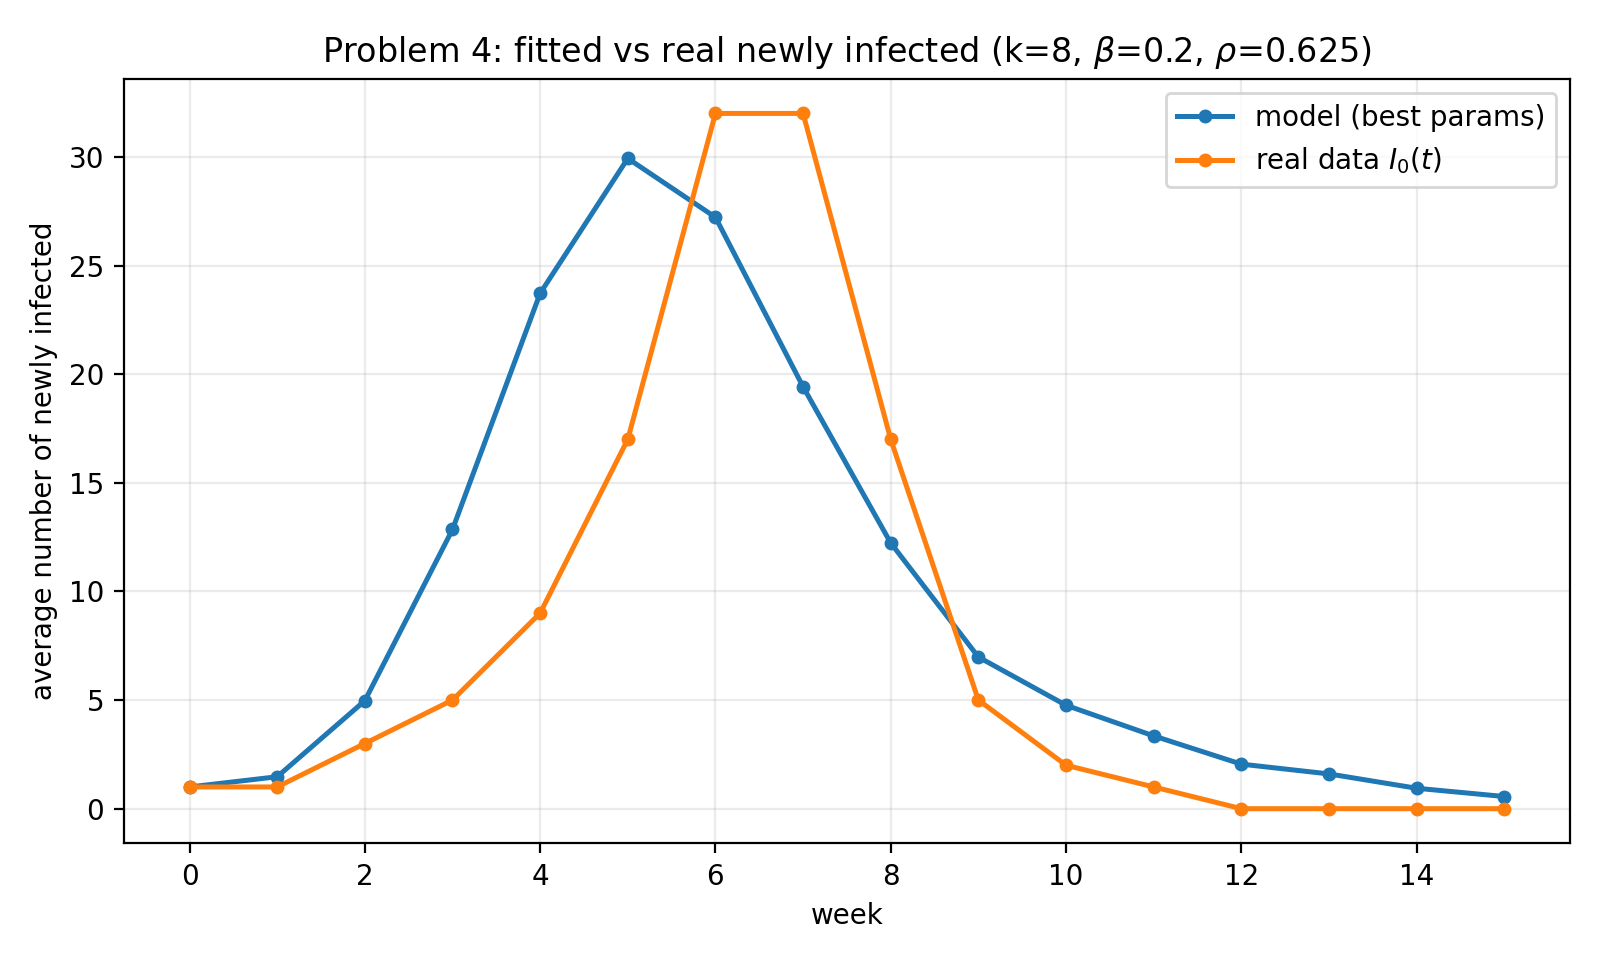
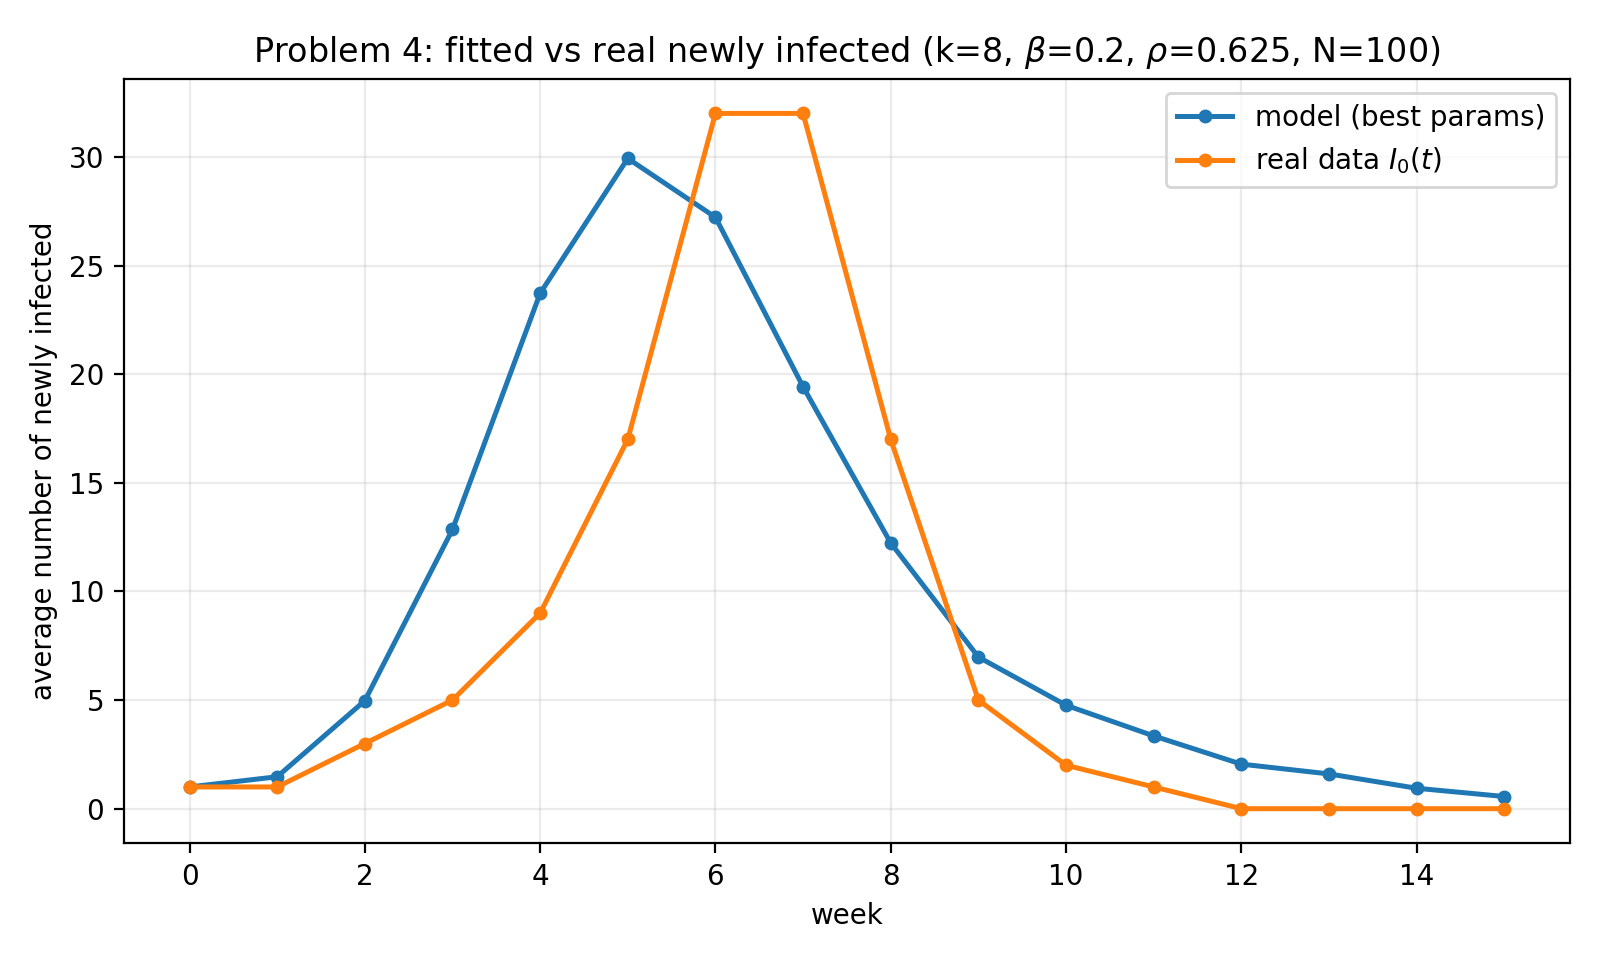
added run at N=10

Changed region(s): [[0.1562, 0.0312, 0.9062, 0.0625]]

diff --git a/hw3/src/run_problem4.py b/hw3/src/run_problem4.py
@@ -3,9 +3,13 @@
 Coordinate (local) search over a 3x3x3 neighbourhood in (k, beta, rho), minimizing the
 RMSE between the simulated average newly-infected curve and the real scaled data I0(t).
 Each evaluation builds a preferential-attachment graph (cached per k, since the graph
-depends only on k) and simulates the vaccinated epidemic of Section 1.3 N_RUNS_SEARCH
-times (=100; the assignment suggests N=10, but the single-seed RMSE objective is noisy,
-so we use 100 for a stable result; see constants.py).
+depends only on k) and simulates the vaccinated epidemic of Section 1.3.
+
+The search is run twice, side by side: once at N_RUNS_SEARCH (=100; the single-seed RMSE
+objective is noisy, so we test 100 for a more stable, result; see constants.py)
+and once at the assignment-specified N_RUNS_SEARCH_SPEC (=10), whose artifacts are
+suffixed "_n10". Both tracks share the same base seeds, so the N=10 runs are literally
+the first 10 of the N=100 runs.
 
 Run from the hw3/ directory:
 
@@ -26,6 +30,7 @@ from constants import (
     I0_SWEDEN,
     K0_SEARCH,
     N_RUNS_SEARCH,
+    N_RUNS_SEARCH_SPEC,
     N_SWEDEN,
     RESULTS_DIR,
     RHO0_SEARCH,
@@ -57,7 +62,7 @@ def rmse_to_real(newly_infected_mean):
     return float(np.sqrt(np.mean((simulated - target) ** 2)))
 
 
-def evaluate(k, beta, rho, graph_cache, rmse_cache, base_seed):
+def evaluate(k, beta, rho, graph_cache, rmse_cache, base_seed, n_runs):
     """Evaluate one (k, beta, rho); memoized. Returns (rmse, newly_infected_mean)."""
     key = (int(k), round(float(beta), 4), round(float(rho), 4))
     if key in rmse_cache:
@@ -69,7 +74,7 @@ def evaluate(k, beta, rho, graph_cache, rmse_cache, base_seed):
         rho,
         N_INIT_SWEDEN,
         WEEKS,
-        N_RUNS_SEARCH,
+        n_runs,
         base_seed=base_seed,
         vacc_schedule=VACC_SWEDEN,
     )
@@ -93,7 +98,7 @@ def neighbourhood(center, deltas):
                 yield (k, beta, rho)
 
 
-def coordinate_search():
+def coordinate_search(n_runs):
     """Run the coordinate search and return the best params plus the full log."""
     graph_cache = {}
     rmse_cache = {}
@@ -112,7 +117,7 @@ def coordinate_search():
             best_point = None
             best_rmse = np.inf
             for point in neighbourhood(center, deltas):
-                rmse, _ = evaluate(*point, graph_cache, rmse_cache, base_seed)
+                rmse, _ = evaluate(*point, graph_cache, rmse_cache, base_seed, n_runs)
                 log_rows.append(
                     {
                         "iteration": iteration,
@@ -139,22 +144,29 @@ def coordinate_search():
         refinements += 1
         print(f"[4] refining: halving beta/rho steps to {deltas[1]}, {deltas[2]}")
 
-    best_rmse, best_curve = evaluate(*center, graph_cache, rmse_cache, base_seed)
+    best_rmse, best_curve = evaluate(*center, graph_cache, rmse_cache, base_seed, n_runs)
     return center, best_rmse, best_curve, graph_cache, log_rows
 
 
-def main():
-    center, best_rmse, _, graph_cache, log_rows = coordinate_search()
+def run_track(n_runs_search, n_runs_final, suffix):
+    """Run one search-and-fit track and write its artifacts.
+
+    'n_runs_search' is the Monte Carlo sample size used during the coordinate search,
+    'n_runs_final' the size of the final presentation run, and 'suffix' is appended to
+    every output filename (empty for the N=100 headline track, "_n10" for the
+    assignment-specified track). Returns the best (k, beta, rho), the search RMSE, and
+    the final RMSE.
+    """
+    center, best_rmse, _, graph_cache, log_rows = coordinate_search(n_runs_search)
     best_k, best_beta, best_rho = center
     print(
-        f"[4] BEST: k={best_k}, beta={best_beta}, rho={best_rho}, "
-        f"search RMSE (N={N_RUNS_SEARCH})={best_rmse:.4f}"
+        f"[4] BEST (N={n_runs_search}): k={best_k}, beta={best_beta}, rho={best_rho}, "
+        f"search RMSE={best_rmse:.4f}"
     )
 
-    write_rows_csv(RESULTS_DIR / "problem4_search_log.csv", log_rows)
+    write_rows_csv(RESULTS_DIR / f"problem4_search_log{suffix}.csv", log_rows)
 
-    # Final presentation run with the best parameters (more runs for smoother curves).
-    final_runs = 100
+    # Final presentation run with the best parameters.
     adjacency = graph_cache[best_k]
     summary = run_many(
         adjacency,
@@ -162,7 +174,7 @@ def main():
         best_rho,
         N_INIT_SWEDEN,
         WEEKS,
-        final_runs,
+        n_runs_final,
         base_seed=DEFAULT_SEED + 4200,
         vacc_schedule=VACC_SWEDEN,
     )
@@ -170,22 +182,22 @@ def main():
     final_rmse = rmse_to_real(summary["newly_infected_mean"])
 
     write_single_row_csv(
-        RESULTS_DIR / "problem4_best_params.csv",
+        RESULTS_DIR / f"problem4_best_params{suffix}.csv",
         {
             "n": N_SWEDEN,
             "best_k": best_k,
             "best_beta": format_float(best_beta),
             "best_rho": format_float(best_rho),
-            "n_runs_search": N_RUNS_SEARCH,
+            "n_runs_search": n_runs_search,
             "search_rmse": format_float(best_rmse),
-            "n_runs_final": final_runs,
+            "n_runs_final": n_runs_final,
             "final_rmse": format_float(final_rmse),
             "n_init_infected": N_INIT_SWEDEN,
             "seed": DEFAULT_SEED + 4200,
         },
     )
     write_weekly_csv(
-        RESULTS_DIR / "problem4_fit_vs_real.csv",
+        RESULTS_DIR / f"problem4_fit_vs_real{suffix}.csv",
         weeks,
         {
             "model_newly_infected_mean": summary["newly_infected_mean"],
@@ -193,7 +205,7 @@ def main():
         },
     )
     write_weekly_csv(
-        RESULTS_DIR / "problem4_sirv_totals.csv",
+        RESULTS_DIR / f"problem4_sirv_totals{suffix}.csv",
         weeks,
         {
             "S_mean": summary["S_mean"],
@@ -212,8 +224,8 @@ def main():
         "week",
         "average number of newly infected",
         f"Problem 4: fitted vs real newly infected "
-        f"(k={best_k}, $\\beta$={best_beta}, $\\rho$={best_rho})",
-        FIGURES_DIR / "problem4_fit_vs_real.png",
+        f"(k={best_k}, $\\beta$={best_beta}, $\\rho$={best_rho}, N={n_runs_search})",
+        FIGURES_DIR / f"problem4_fit_vs_real{suffix}.png",
     )
     plot_lines(
         weeks,
@@ -225,10 +237,19 @@ def main():
         },
         "week",
         "average number of individuals",
-        f"Problem 4: S/I/R/V totals under the best model (N={final_runs})",
-        FIGURES_DIR / "problem4_sirv_totals.png",
+        f"Problem 4: S/I/R/V totals under the best model (N={n_runs_final})",
+        FIGURES_DIR / f"problem4_sirv_totals{suffix}.png",
     )
-    print(f"[4] final RMSE (N={final_runs}) at best params = {final_rmse:.4f}")
+    print(f"[4] final RMSE (N={n_runs_final}) at best params = {final_rmse:.4f}")
+    return center, best_rmse, final_rmse
+
+
+def main():
+    # Headline track: stable N=100 search (artifacts keep their original names).
+    run_track(N_RUNS_SEARCH, 100, "")
+    # Assignment-specified track: search and run at N=10, artifacts suffixed "_n10".
+    print(f"\n[4] re-running the search at the assignment-specified N={N_RUNS_SEARCH_SPEC}")
+    run_track(N_RUNS_SEARCH_SPEC, N_RUNS_SEARCH_SPEC, "_n10")
 
 
 if __name__ == "__main__":

diff --git a/hw3/src/constants.py b/hw3/src/constants.py
@@ -44,6 +44,9 @@ DELTA_RHO = 0.1
 # onto spurious minima (true RMSE far from the apparent one). We use N=100 for a stable,
 # reproducible objective (std ~0.4), consistent with the assignment's invitation to tune.
 N_RUNS_SEARCH = 100
+# Assignment-specified value. We run the search at N=10 (artifacts suffixed
+# "_n10") for literal compliance with the PDF, side by side with the N=100 result above.
+N_RUNS_SEARCH_SPEC = 10
 
 # Reproducibility.
 DEFAULT_SEED = 20260608